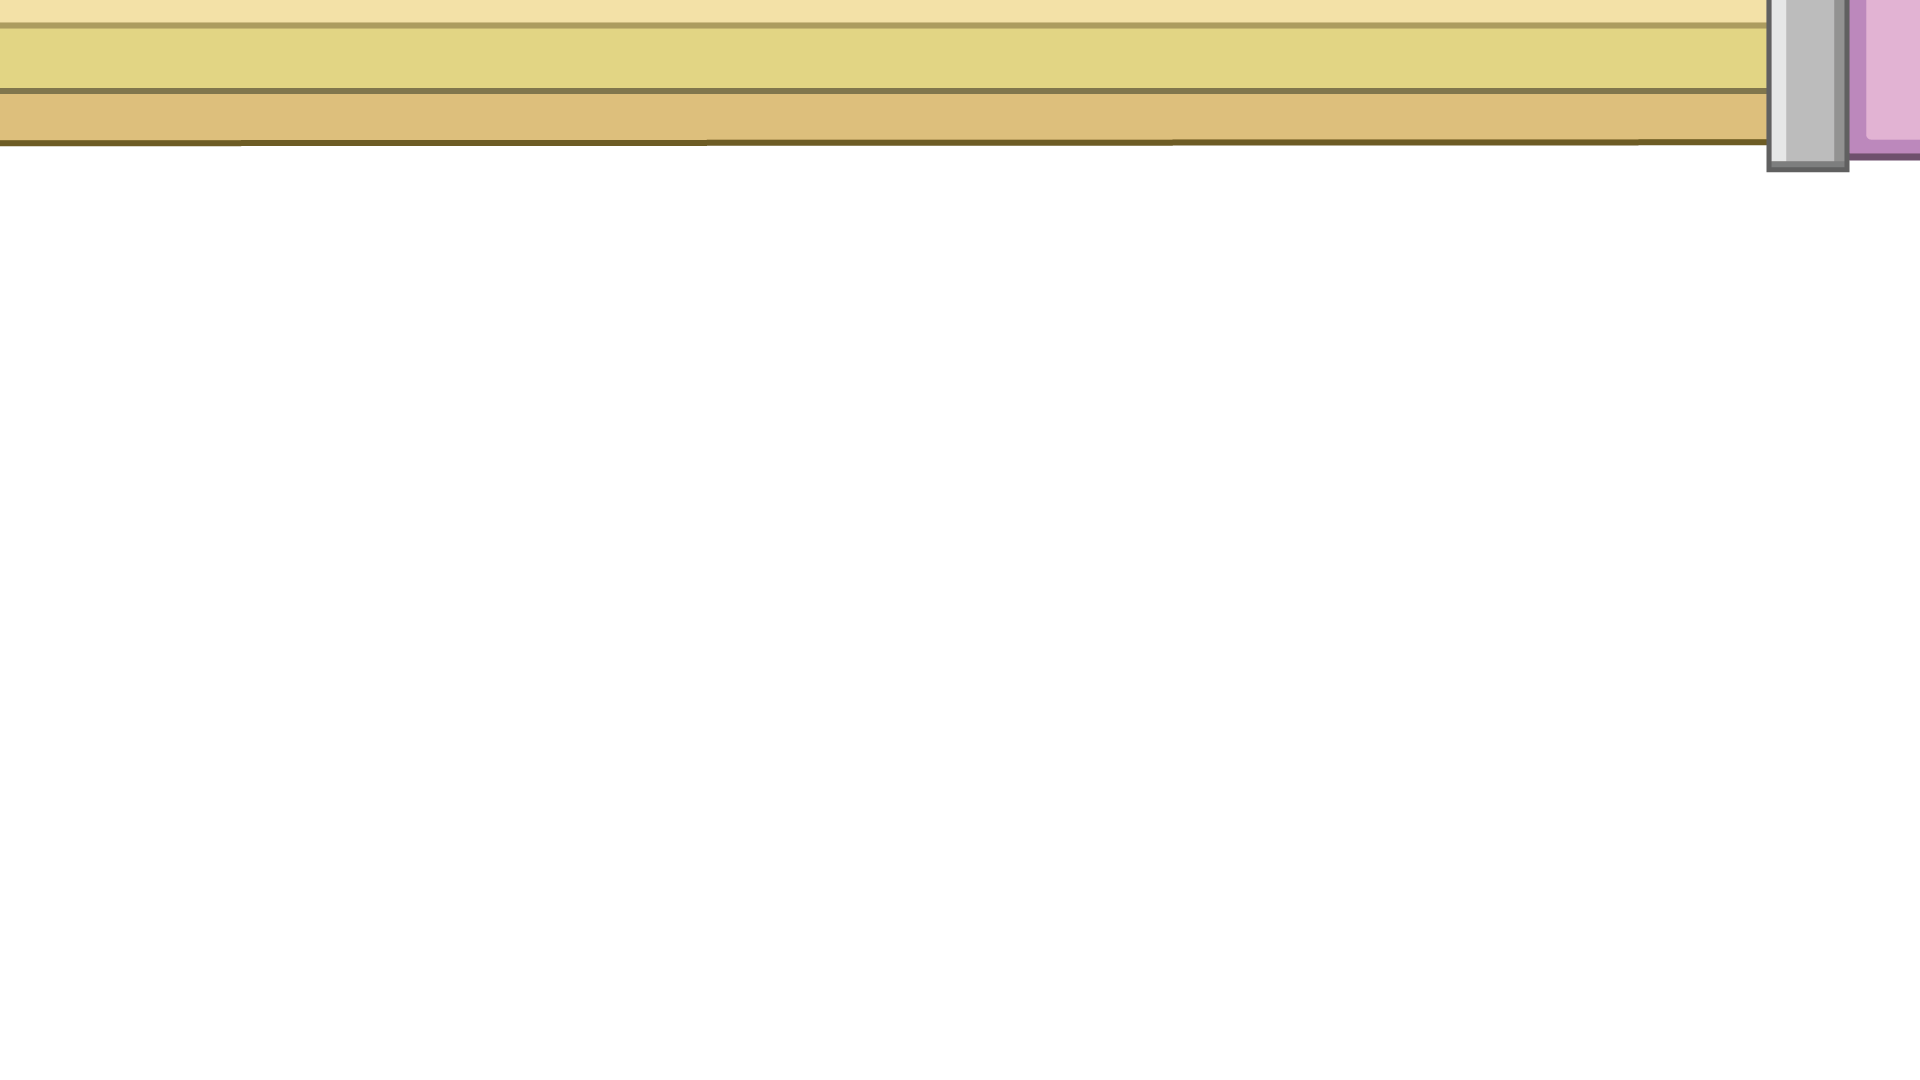
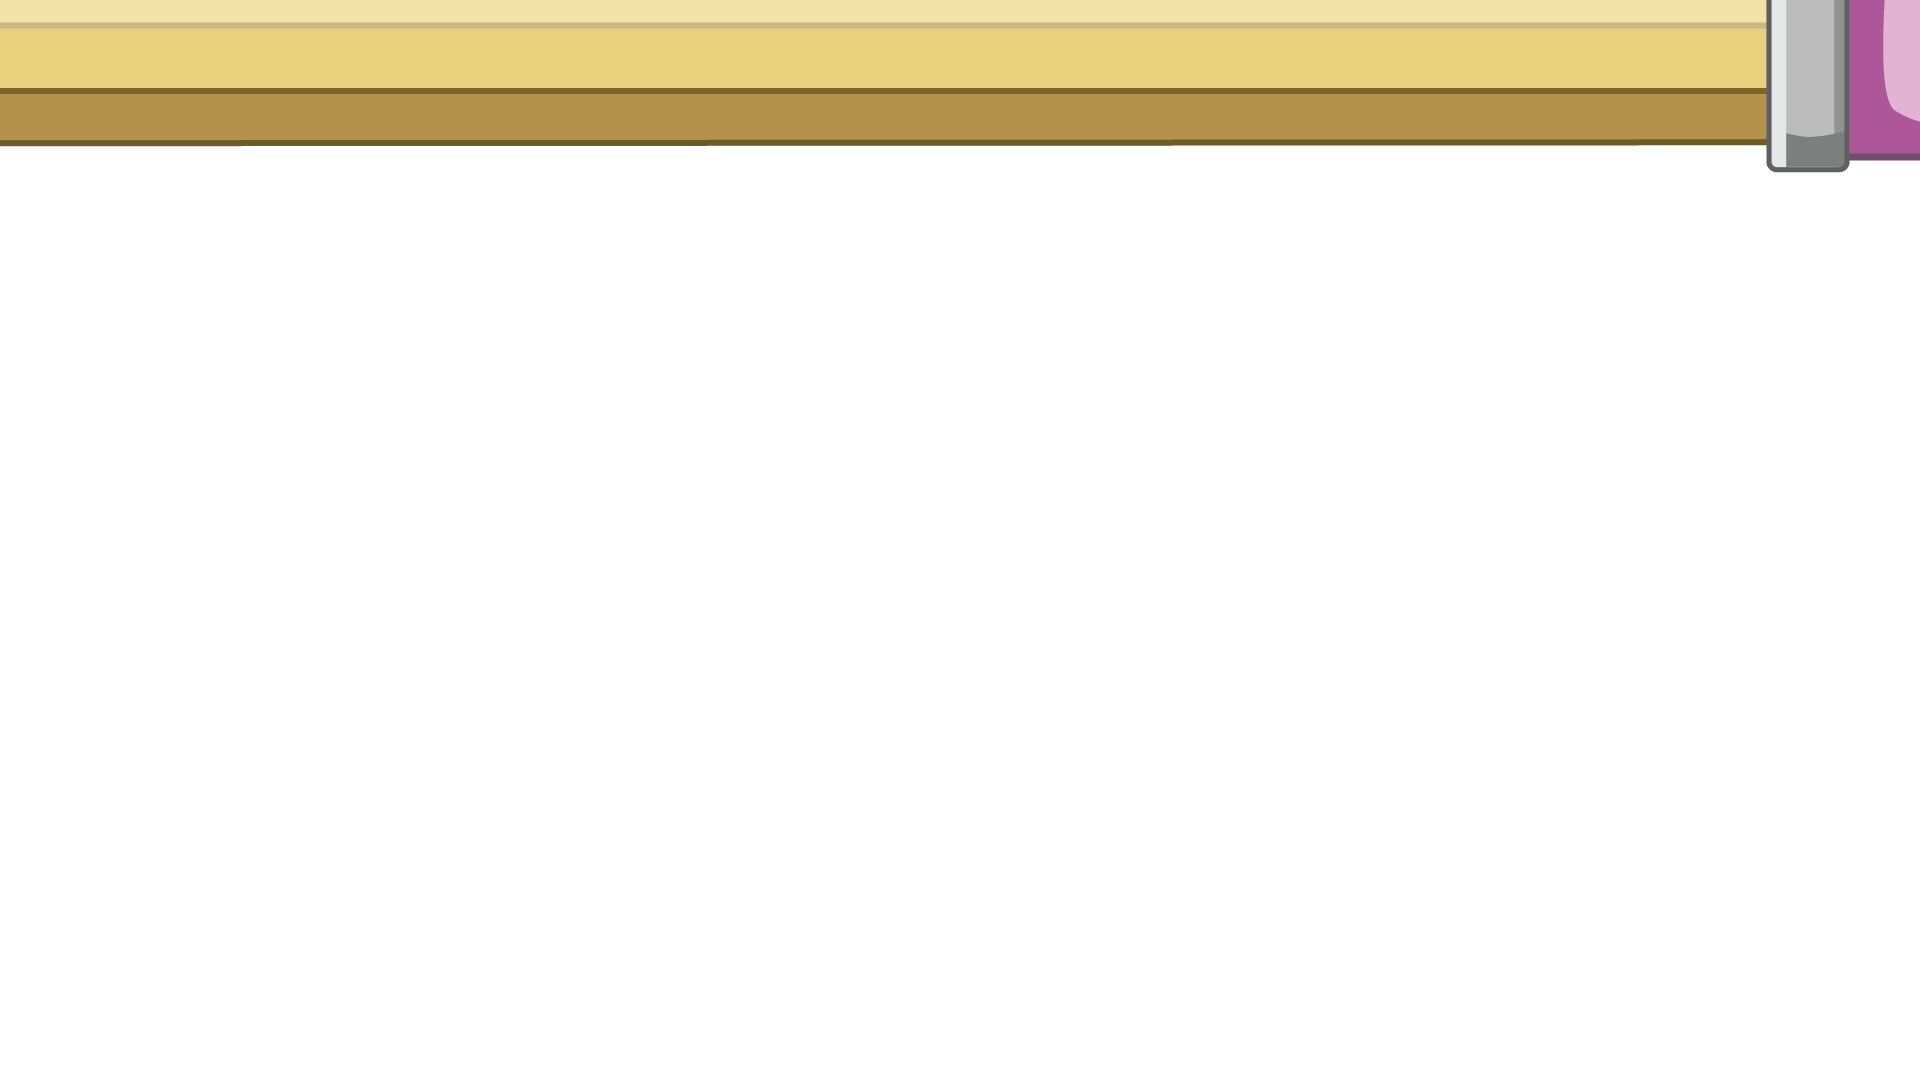
commit navbar improvement

Changed region(s): [[0.0, 0.0, 1.0, 0.1528], [0.0, 0.0, 0.9062, 0.0306]]

diff --git a/css/navbar.css b/css/navbar.css
@@ -39,7 +39,7 @@
   color: white;
   text-decoration: none;
   font-weight: bold;
-  text-shadow: 3px 3px rgb(90, 90, 90);
+  text-shadow: 0px 6px 10px rgb(53, 52, 52);
 }
 
 .navbar li{
